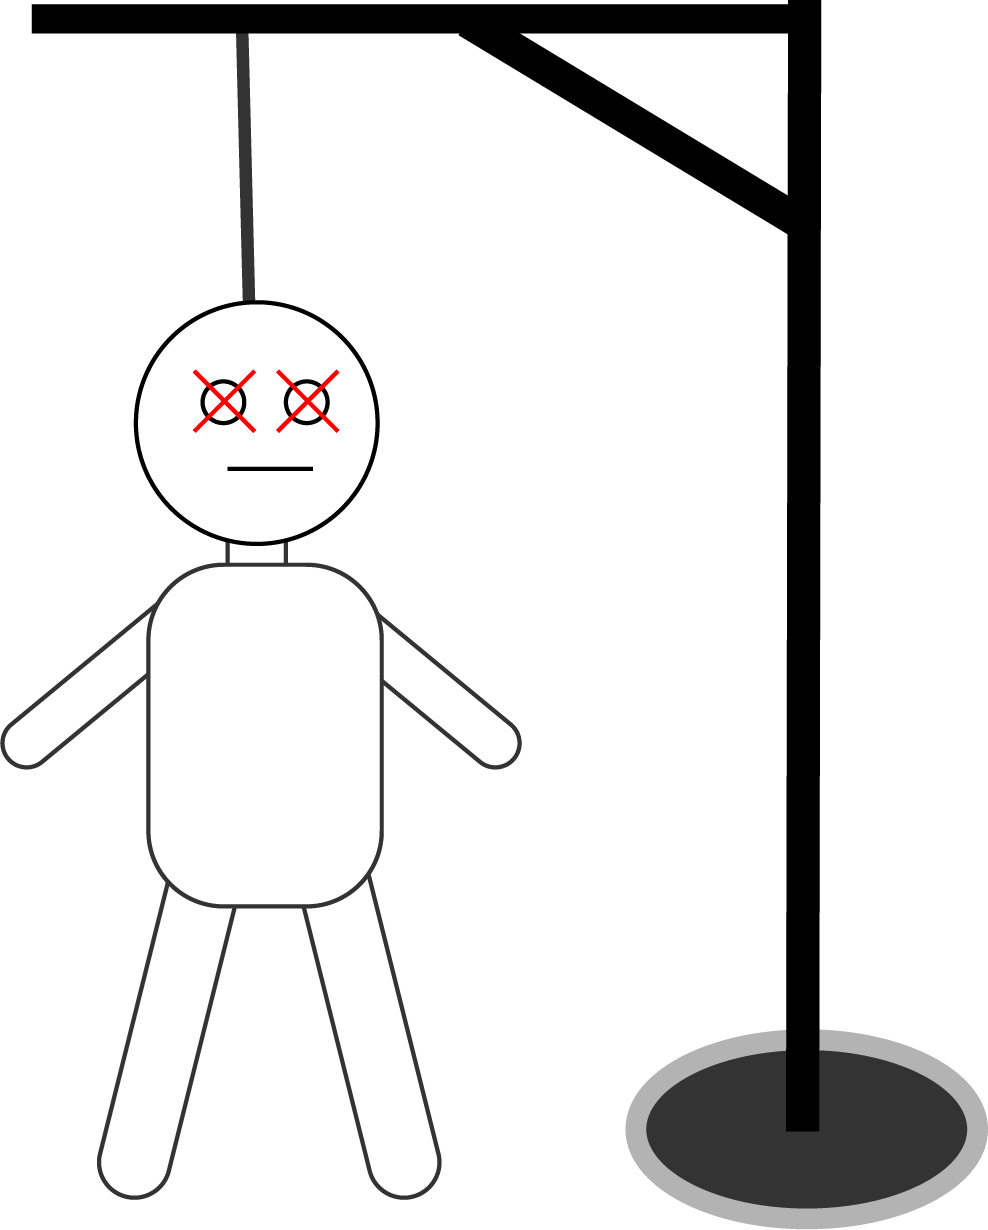
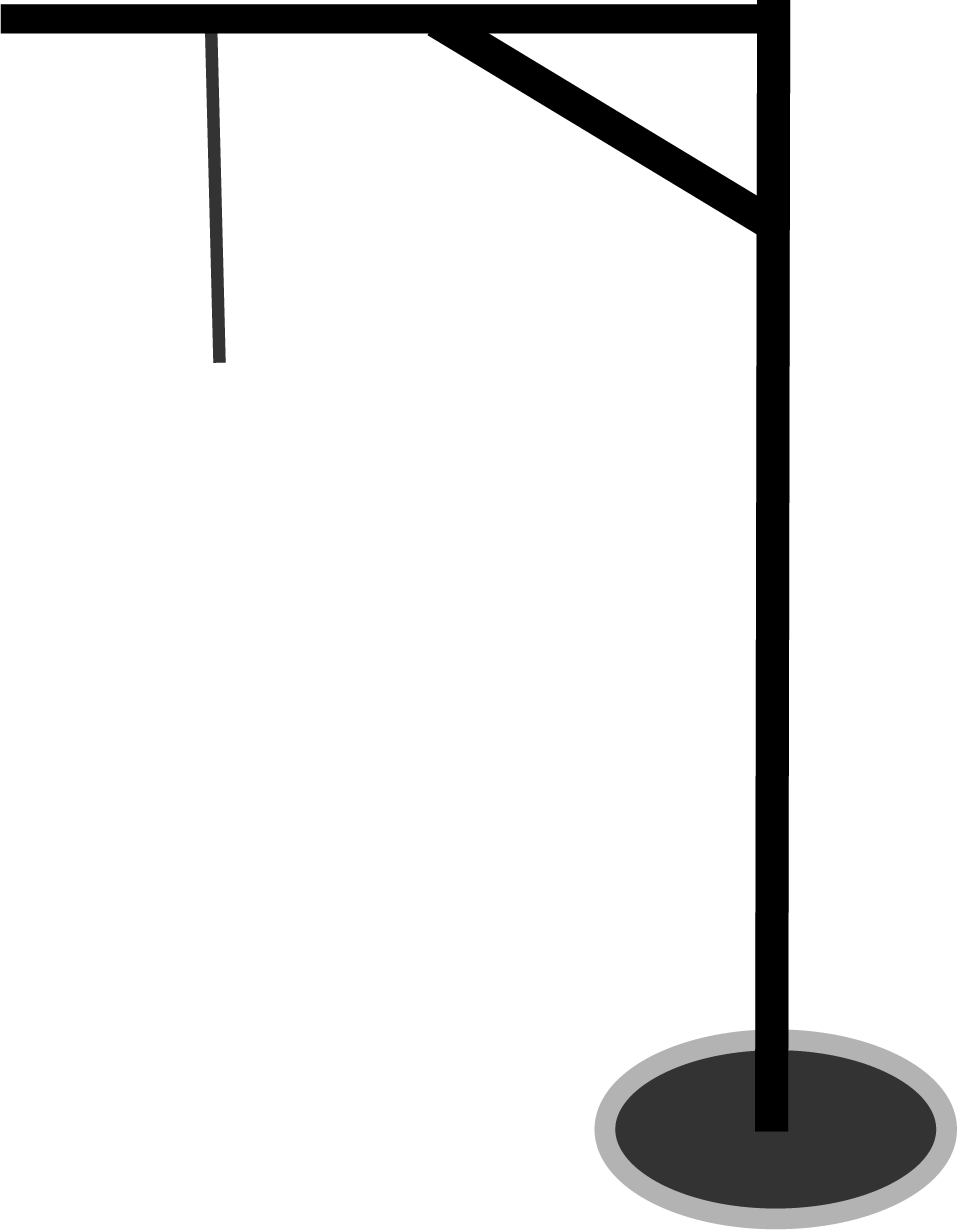
added hangman

diff --git a/gui/main.py b/gui/main.py
@@ -1,5 +1,5 @@
 import pygame
-from button import button
+from .button import button
 
 def playgame():
     pygame.init()
@@ -9,63 +9,93 @@ def playgame():
     HEIGHT = 800
 
     background = pygame.display.set_mode((HEIGHT, WIDTH))
-    background.fill((255,255,255))
+    
 
     # this function draws the png
     def drawMan(integer):
-        num = str((integer + 7) % 8)
+        num = str((integer + 6) % 7)
         image = pygame.image.load('assets/hangman%s.png' %num)
-        pygame.transform.scale(image, (10,10))
-        background.blit(image, (400,200))
+        image = pygame.transform.scale(image, (300,400))
+        background.blit(image, (80,30))
 
 
-    startScreen = True
+    difficultyScreen = True
     nextScreen = False
+    endScreen = False
 
     EASY = button((200,200,200), WIDTH/2 - 75, HEIGHT/2 -250, 200,100, "EASY")
     MEDIUM = button((200,200,200), WIDTH/2 - 75, HEIGHT/2 -125, 200,100, "MEDIUM")
     HARD = button((200,200,200), WIDTH/2 - 75, HEIGHT/2, 200, 100, "HARD")
 
-    def defaultColor():
-        EASY.color = (200,200,200)
-        MEDIUM.color = (200,200,200)
-        HARD.color = (200,200,200)
 
-    while difficultyScreen:
+    while difficultyScreen or nextScreen or endScreen:
         
-        EASY.draw(background, (0,0,0))
-        MEDIUM.draw(background, (0,0,0))
-        HARD.draw(background, (0,0,0))
         
+        #chances used
         chance = 0
 
-        # drawMan(chance)
+        def defaultColor():
+            EASY.color = (200,200,200)
+            MEDIUM.color = (200,200,200)
+            HARD.color = (200,200,200)
 
-        pygame.time.Clock().tick(30)
-        pygame.display.update()
+        # this will emulate the selection process
+        while difficultyScreen:
+            pygame.time.Clock().tick(30)
+            pygame.display.update()
+            background.fill((255,255,255))
+            
+            EASY.draw(background, (0,0,0))
+            MEDIUM.draw(background, (0,0,0))
+            HARD.draw(background, (0,0,0))
+            
 
+            for event in pygame.event.get():
+                if event.type == pygame.QUIT:
+                    difficultyScreen = False
 
-        for event in pygame.event.get():
-            if event.type == pygame.QUIT:
-                difficultyScreen = False
+                if event.type == pygame.MOUSEBUTTONDOWN:
+                    if EASY.isOver(pygame.mouse.get_pos()):
+                        difficultyScreen = False
+                        nextScreen = True
+                        pygame.display.flip()
+                    elif HARD.isOver(pygame.mouse.get_pos()):
+                        HARD.color = (100,100,100)
+                        pygame.display.flip()
+                    elif MEDIUM.isOver(pygame.mouse.get_pos()):
+                        MEDIUM.color = (100,100,100)
+                        pygame.display.flip()
+                    
+                if event.type == pygame.MOUSEMOTION:
+                    if EASY.isOver(pygame.mouse.get_pos()):
+                        EASY.color = (100,100,100)
+                    elif HARD.isOver(pygame.mouse.get_pos()):
+                        HARD.color = (100,100,100)
+                    elif MEDIUM.isOver(pygame.mouse.get_pos()):
+                        MEDIUM.color = (100,100,100)
+                    else:
+                        defaultColor()
+        
+        while nextScreen:
 
-            if event.type == pygame.MOUSEBUTTONDOWN:
-                print(pygame.mouse.get_pos())
+            pygame.time.Clock().tick(30)
+            pygame.display.update()
+            background.fill((255,255,255))
+
+            drawMan(chance)
+
+            for event in pygame.event.get():
                 
-            if event.type == pygame.MOUSEMOTION:
-                if EASY.isOver(pygame.mouse.get_pos()):
-                    EASY.color = (100,100,100)
-                elif HARD.isOver(pygame.mouse.get_pos()):
-                    HARD.color = (100,100,100)
-                elif MEDIUM.isOver(pygame.mouse.get_pos()):
-                    MEDIUM.color = (100,100,100)
-                else:
-                    defaultColor()
-    
-    while nextScreen:
-        pass
+                if event.type == pygame.QUIT:
+                    nextScreen = False
+                
+                if event.type == pygame.MOUSEBUTTONDOWN:
+                    chance+= 1
+                    # nextScreen = False
+                    # difficultyScreen = True
+                    # pygame.display.flip()
+
+        
         
 
     pygame.quit()
-
-playgame()

diff --git a/Game.py b/Game.py
@@ -1,1 +1,4 @@
 from gui.main import playgame
+
+#this is the main game function
+playgame()
